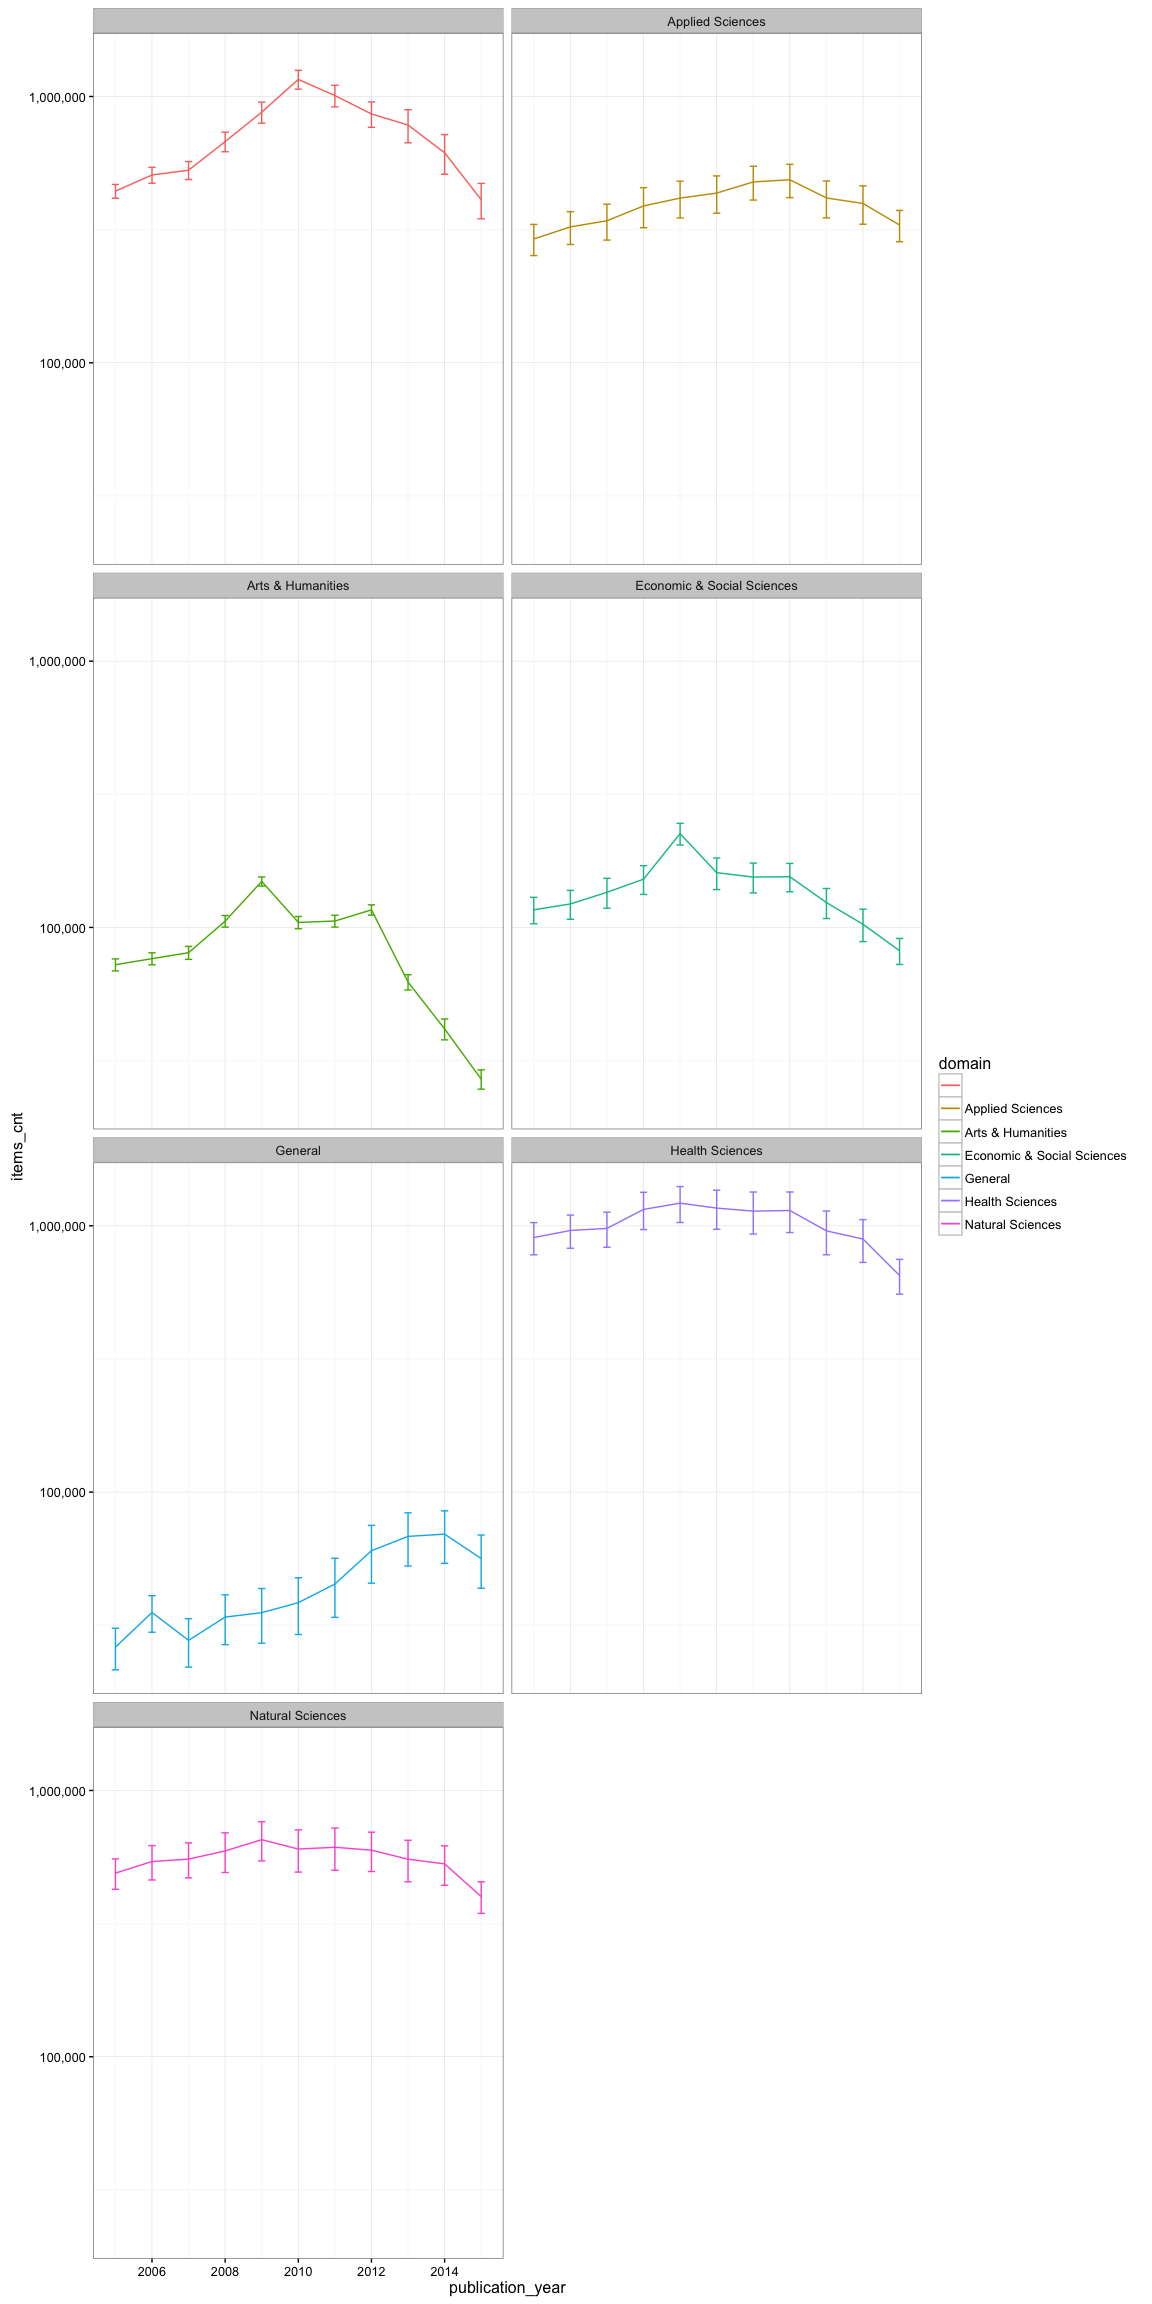
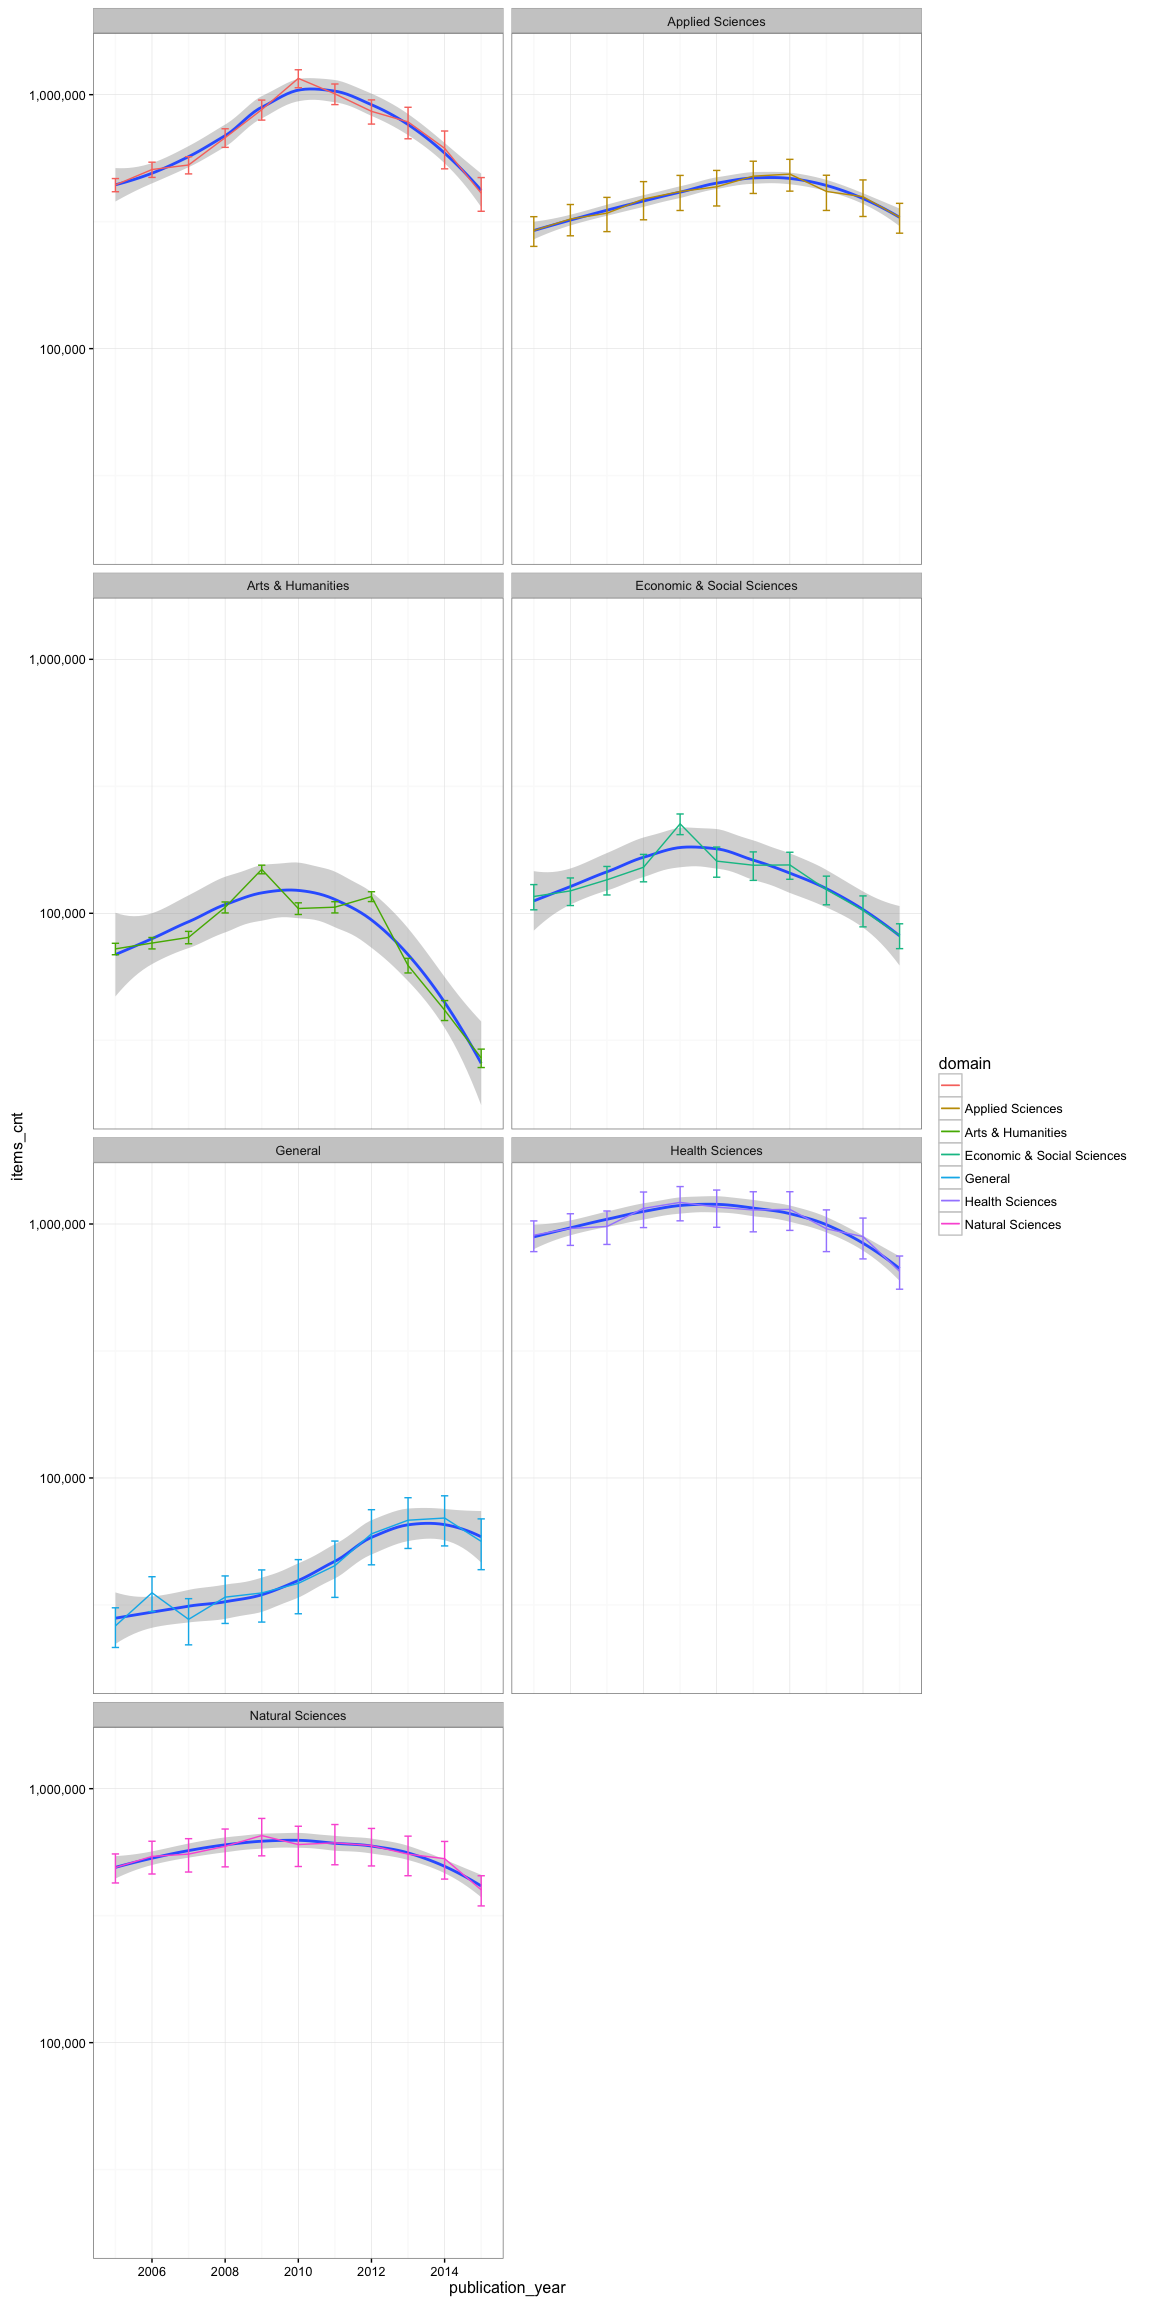
Redshift tips: typo fixes and small formatting glitches

diff --git a/dataviz-from-redshift.md b/dataviz-from-redshift.md
@@ -326,13 +326,14 @@ ggplot(dfTable) + coord_cartesian(ylim = c(0, max(dfTable$items_cnt))) +
 ``` r
 dsl2Df <- as.data.frame(dslSample2)
 ggplot(dsl2Df, aes(publication_year, items_cnt)) +
+    geom_smooth(level = 0.95) + 
     geom_line(aes(color = domain)) +
     geom_errorbar(aes(x = publication_year, 
-                      ymin = items_vmin, ymax = items_vmax, 
+                      ymin = items_vmin, ymax = items_vmax,
                       color = domain, width = 0.2)) +
     scale_fill_viridis() + scale_y_log10(labels = comma) + # + scale_y_continuous(labels = comma)
-    scale_x_continuous(breaks = pretty_breaks()) +
-    facet_wrap(~ domain , ncol = 2 ) + theme_bw()
+    scale_x_continuous(breaks = pretty_breaks()) + 
+    facet_wrap(~domain , ncol = 2 ) + theme_bw()
 ```
 
 ![](dataviz-from-redshift_files/figure-markdown_github/Multiple%20aesthetics%20and%20facetting-1.png)<!-- -->
@@ -344,11 +345,11 @@ Other tools
 
 base plots
 
-package manipulate
+package `manipulate` to bring basic interactivity easily in your plot parameters
 
-Other graph libraries
+Other graph libraries (highCharts, rCharts, ...)
 
-plotly from R,
+Plotly from R
 
 Reference
 ---------
@@ -356,7 +357,7 @@ Reference
 ### DplyR tutorials and resources
 
 -   [dplyR repo and quick intro](https://github.com/hadley/dplyR)
--   [RStudio: Data wrangling heat sheet](http://www.rstudio.com/wp-content/uploads/2015/02/data-wrangling-cheatsheet.pdf) (Really great!, covers plyR and tidyr)
+-   [RStudio: Data wrangling cheat sheet](http://www.rstudio.com/wp-content/uploads/2015/02/data-wrangling-cheatsheet.pdf) (Really great!, covers plyR and tidyr)
 -   [Datascience+: data manipulation with dplyR](http://datascienceplus.com/data-manipulation-with-dplyR/)
 -   [dplyR tutorial](http://genomicsclass.github.io/book/pages/dplyR_tutorial.html)
 -   [Datacamp tutorial: Data Manipulation in R with dplyR](https://www.datacamp.com/courses/dplyR-data-manipulation-r-tutorial)
